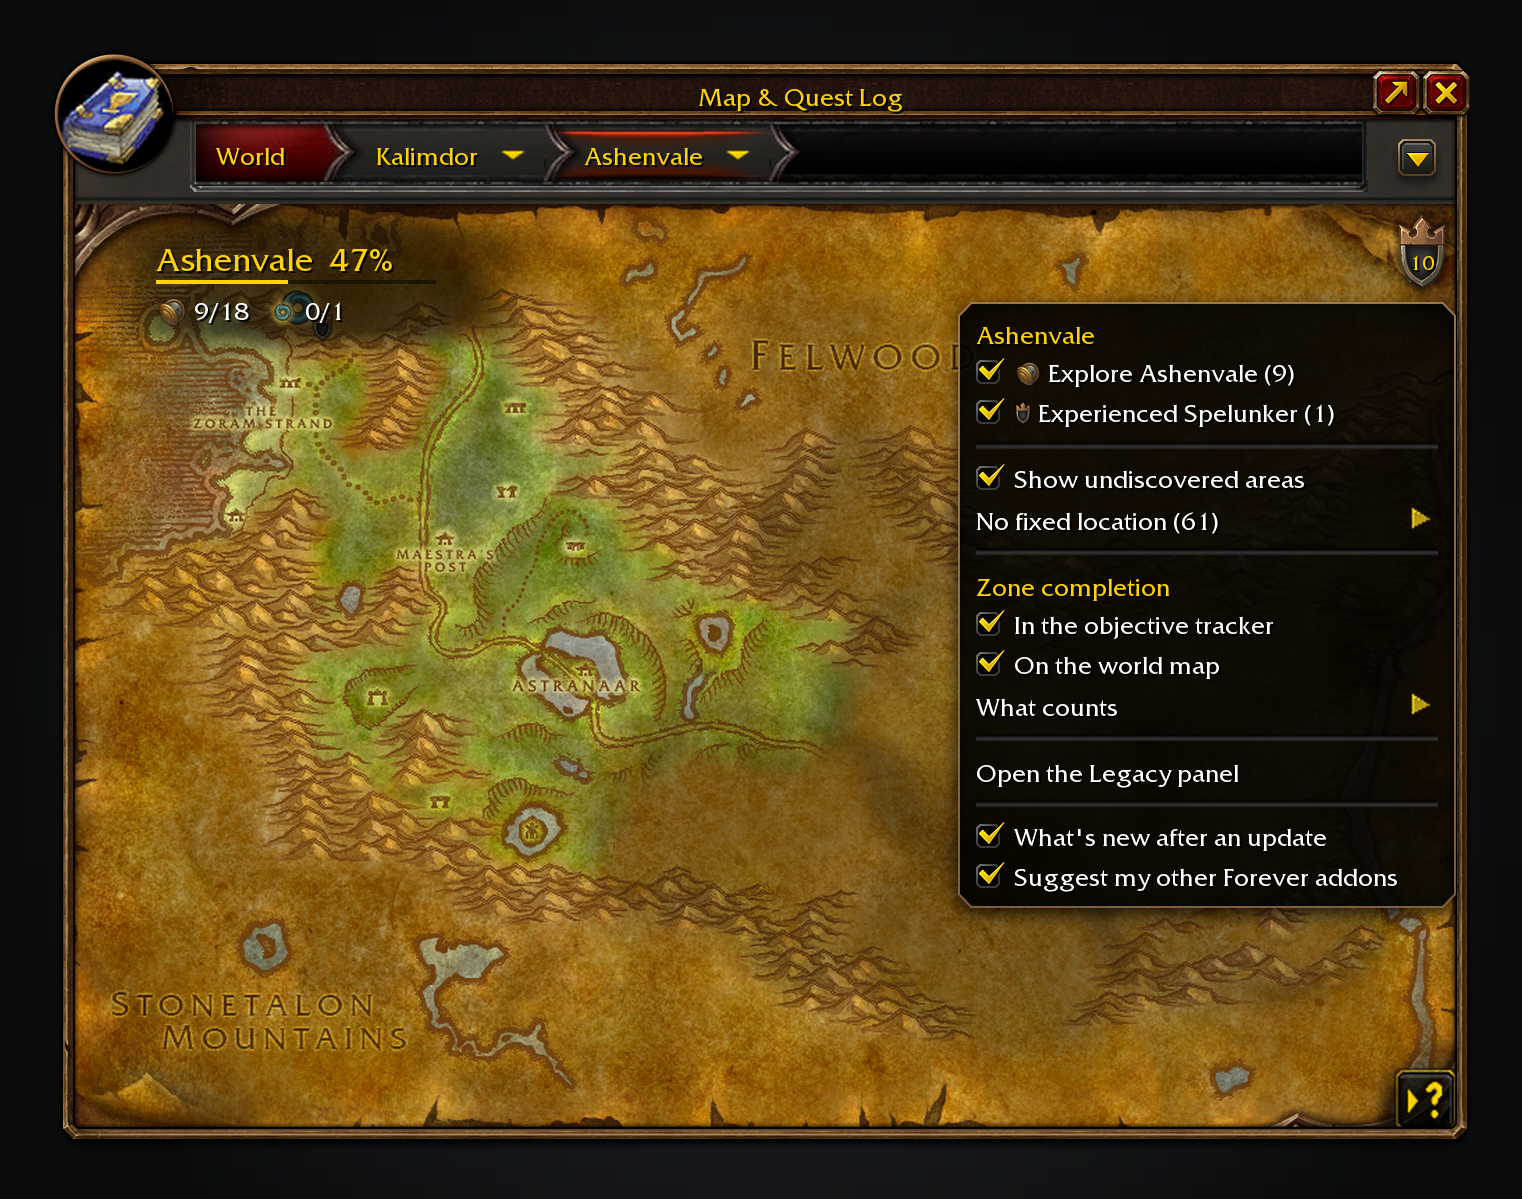
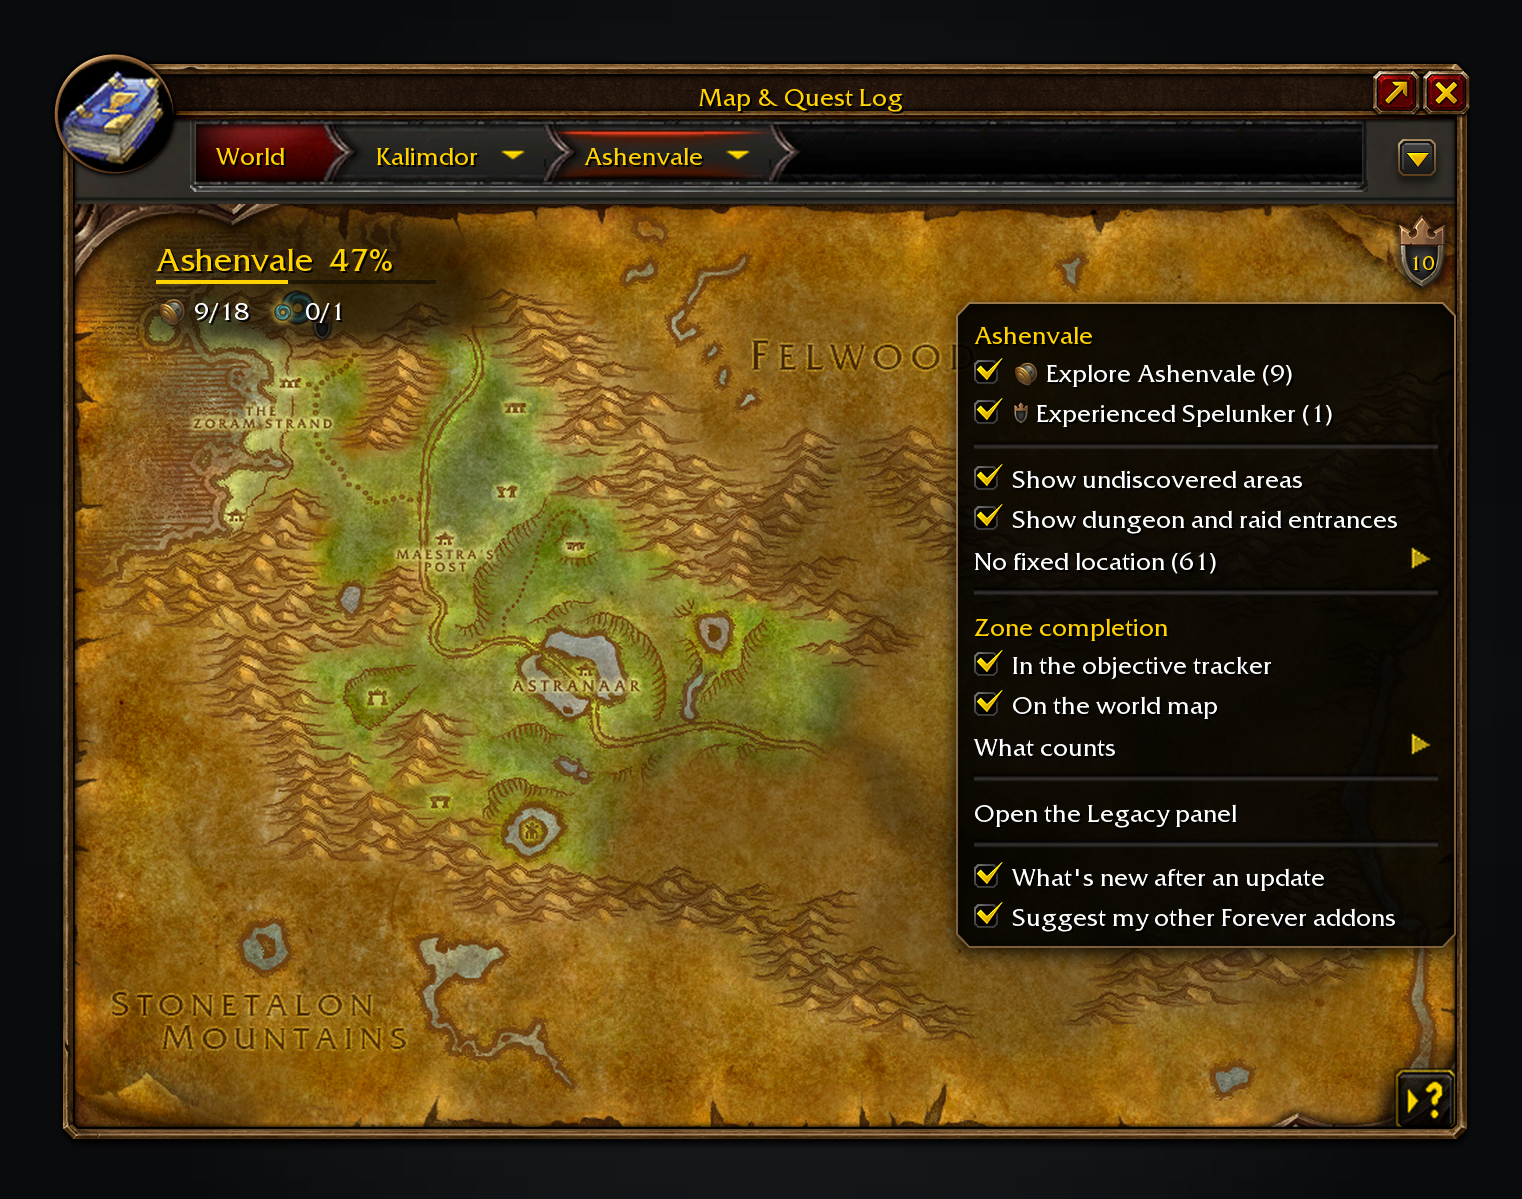
feat(map): a switch to hide the dungeon and raid entrance pins (#140)
Fixes #139

## Why

overspark asked on CurseForge (on the Tweaks Forever page, but about
Legacy's map) for a way to stop Legacy drawing dungeon entrances,
because other map addons already mark them. Legacy's portal with its
shield then sits as a second icon on the same spot.

## What

- **Switch:** `showEntrances` in `Core/Saved.lua`'s `DEFAULTS`, on by
default. A missing key reads as on, so old save files show the pins as
before. It's saved at the top level, beside `showAreas`.
- **Map menu** (`UI/Map.lua`): *Show dungeon and raid entrances* sits
under *Show undiscovered areas*, with a tooltip: "Turn this off if
another addon already marks them. The Legacy map menu still lists them."
Toggling it redraws the pins at once, like the shading switch.
- **Settings:** the same row, with the same tooltip, on Options > AddOns
> Legacy Forever > World map, under *Show undiscovered areas*. Both go
through `ns.Saved`, so the two stay in step.
- **What it hides** (`UI/MapContents.lua`): only zone-map pins whose
objective is a dungeon or raid entrance (`kind = "instance"`). Boss and
quest pins, the continent zone badges and the undiscovered-area shading
stay. The button's count and the menu's entries come from
`MapContents.Objectives`, which the switch doesn't touch, so entrances
can still be tracked.
- Tweaks Forever's own entrance icons step aside only where a
`LegacyForeverPinTemplate` pin sits, so with this off they show again.
[…]

Changed region(s): [[0.6176, 0.2469, 0.9573, 0.8023], [0.9264, 0.5863, 0.9573, 0.648]]

diff --git a/tools/screenshots.py b/tools/screenshots.py
@@ -404,6 +404,7 @@ def main_menu(ui, live):
     entries += [
         MenuDivider(),
         MenuCheckbox("Show undiscovered areas", True),
+        MenuCheckbox("Show dungeon and raid entrances", True),
         MenuButton(f"No fixed location |cffffffff({open_total})|r", True),
         MenuDivider(),
         MenuTitle("Zone completion"),

diff --git a/README.md b/README.md
@@ -34,7 +34,7 @@ Tick a challenge in the menu to track it.
 
 - **Map button** in the world map's top-right button column: a Legacy shield with a number inside, the unfinished objectives on the map you're viewing. Its menu lists them by challenge, with a tick box to track each one. Challenges with no fixed place are grouped the way the Legacy panel groups them.
 - **Tracker**: a Legacy section in the objective tracker, under the game's own All Objectives header, lists what you track, with live progress. A zone ticked in the map menu tracks just that zone, such as "0/12 Explore Felwood". Click a challenge to open it in the Legacy panel, or right-click to stop tracking it. [How it lists steps](docs/tracker.md).
-- **Map pins** on dungeon and raid entrances, with the challenge each counts toward and its Legacy points. Left-click a pin to travel there: with [Shortest Path Forever](https://www.curseforge.com/wow/addons/shortest-path-forever) it plans the whole journey, otherwise it sets the game's own waypoint.
+- **Map pins** on dungeon and raid entrances, with the challenge each counts toward and its Legacy points. Left-click a pin to travel there: with [Shortest Path Forever](https://www.curseforge.com/wow/addons/shortest-path-forever) it plans the whole journey, otherwise it sets the game's own waypoint. If another addon already marks entrances, the map menu turns these pins off.
 - **Undiscovered areas** are shaded darker in their real shape on the zone map, so you can see where to go at a glance. Hovering one names it and, when a Legacy challenge counts it, shows the challenge, its points and how many of the zone's areas are left. The map menu turns the shading off.
 - **Zone completion**, Guild Wars 2 style: how much of a zone's areas, dungeons, raids and Legacy objectives you've done, as a percentage in the map's corner, a badge on each zone of a continent map and, if you tick it, the tracker. Flight paths, local reputations and, with Questie, quests can be added under "What counts". A finished zone gets a toast and a sound. [What it counts](docs/zone-completion.md).
 - **No fixed location** lists challenges whose remaining work isn't tied to a place, such as levels, skills and ranks.
@@ -119,7 +119,7 @@ CI runs these checks on main pushes and pull requests. Each day a scheduled job 
 
 ## Credits
 
-Brainc3ll translated Legacy Forever into French. Some features were inspired by [Polestar](https://github.com/fitzforge/polestar) by Fitz, such as `/lf report` and the issue forms; no code was copied. Fitz is welcome to use our code. Thanks to Bigabyte and everyone who reported a bug. [THIRD_PARTY.md](THIRD_PARTY.md) has the full list.
+Brainc3ll translated Legacy Forever into French. Some features were inspired by [Polestar](https://github.com/fitzforge/polestar) by Fitz, such as `/lf report` and the issue forms; no code was copied. Fitz is welcome to use our code. Thanks to Bigabyte, overspark and everyone who reported a bug or asked for a feature. [THIRD_PARTY.md](THIRD_PARTY.md) has the full list.
 
 ## Licence
 

diff --git a/.agents/skills/sift-project/SKILL.md b/.agents/skills/sift-project/SKILL.md
@@ -67,7 +67,7 @@ edit changed nothing. `gen_legacy.py --offline` fails when the cache holds an ol
 - `LegacyForever.toc` file list: load order `Locales/enUS.lua` (then any `Locales/<locale>.lua`), `Data/Legacy.lua, Core, Saved, ForeverFamily, WhatsNew, Model, Live, Quests, Navigate,
   ZoneCompletion, TrackerHost, Tracker, UI/Completion.xml, Completion, Settings, MapContents, UI/Map.xml, Map, API`; never reorder as formatting.
 - `## SavedVariables: LegacyForeverDB`: persisted keys `tracked`, `zoneCompletion`,
-  `flightPaths`, `trackerHost`, `showAreas`, `whatsNew`, `lastVersion`, named only in `Core/Saved.lua`, and `suggestFamily` (default
+  `flightPaths`, `trackerHost`, `showAreas`, `showEntrances`, `whatsNew`, `lastVersion`, named only in `Core/Saved.lua`, and `suggestFamily` (default
   in `Core/Saved.lua`) and `familyDismissed`, which the shared `UI/ForeverFamily.lua` (byte-identical in all five addons; never edit it
   here) also reads and writes through `ns.FamilyDB()`; old keys in players' saved data are compatibility obligations (`companions`, pre-0.8, is
   migrated to `suggestFamily` once and dropped).

diff --git a/CHANGELOG.md b/CHANGELOG.md
@@ -12,6 +12,8 @@ optional `### For addon authors` subsection after a version's player bullets.
 
 ## [Unreleased]
 
+- **You can hide Legacy's dungeon and raid entrances on the world map.** Many map addons already mark every entrance, so Legacy's portal with its shield was a second icon in the same spot. Untick *Show dungeon and raid entrances* in the Legacy map menu, or on the World map page under Options > AddOns > Legacy Forever, and the entrance pins go at once. Everything else stays: other pins, the continent zone badges and the undiscovered-area shading. The map button still counts the entrances and its menu still lists them, so you can still track them. It's on by default; thanks to overspark for the idea.
+
 ## [0.9.1] - 2026-10-17
 
 - **Data checked against Forever 1.60.1.70450.** No Legacy objective was added, removed or moved in this build, so the map and tracker show the same objectives as before. Only the bundled data's build pin changed.

diff --git a/THIRD_PARTY.md b/THIRD_PARTY.md
@@ -44,5 +44,6 @@ Credit for the ideas, translations and reports behind the addon.
 | [Polestar](https://github.com/fitzforge/polestar) by Fitz | From cjber/adventure-guide-forever's issues: `/lf report` with its copy box and caught errors (#156), the issue forms (#157), the zip check (#158), `tools/doctor.py` (#160), the stale-screenshot check (#161), this file (#162), the "For addon authors" changelog subsection (#163) and `.editorconfig` (#165). | GPL-3.0. Inspired only; no code was copied. Fitz is welcome to use our code. |
 | Brainc3ll | The French translation (#99) | |
 | Bigabyte | Found the quest tracker shifting when moved in Edit Mode (#103) | |
+| overspark | Asked on CurseForge for a way to hide the dungeon and raid entrance pins, which became *Show dungeon and raid entrances* (#139) | |
 
 Thanks also to everyone else who reported a bug, here or on CurseForge.
